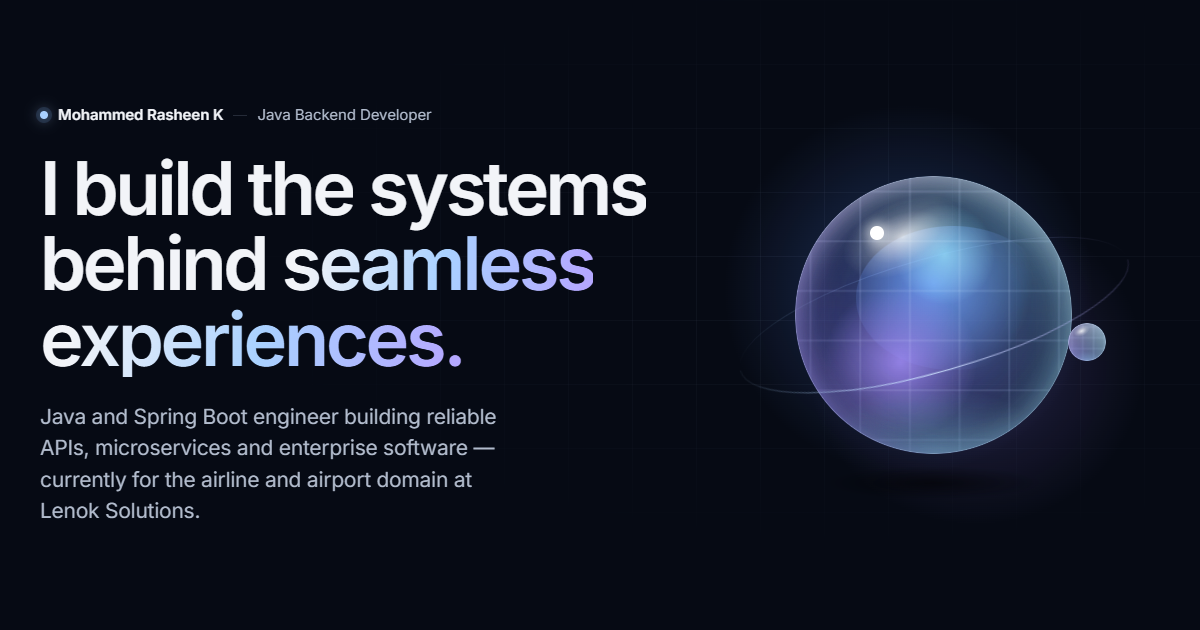
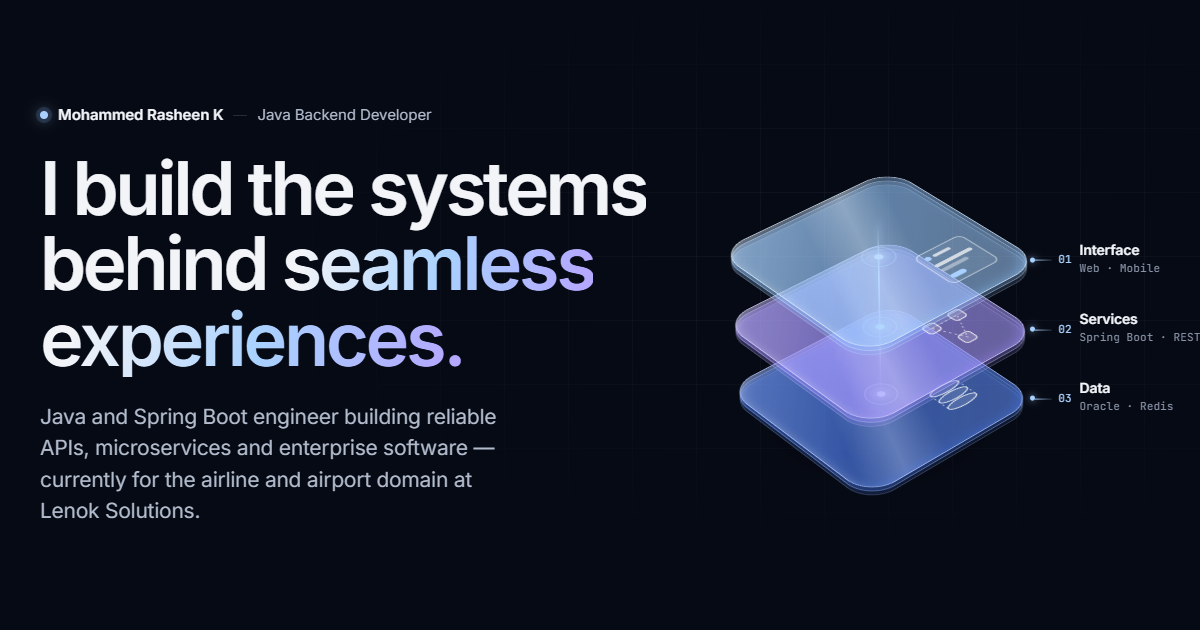
feat: enhance navigation and hero stack animations with liquid lens effects

Changed region(s): [[0.5858, 0.2714, 1.0, 0.7841], [0.9558, 0.6333, 0.9867, 0.6635]]

diff --git a/src/components/HeroStack.css b/src/components/HeroStack.css
@@ -9,6 +9,7 @@
   --explode: 0;
   --size: min(500px, 100%);
   --gap: calc(19cqw + var(--explode) * 6cqw);
+  --cx: 38cqw; /* horizontal centre of the stack; callouts derive from it */
   position: relative;
   width: var(--size);
   aspect-ratio: 1 / 1.04;
@@ -26,7 +27,7 @@
 
 .stack-plane {
   position: absolute;
-  left: 38cqw;
+  left: var(--cx);
   top: 70cqw;
   width: 50cqw;
   height: 50cqw;
@@ -172,7 +173,7 @@
 /* ---- Flat callouts (readable labels, like an exploded product diagram) --
    Each label sits at its slab's right-hand corner, projected from the same
    rotations as .stack-plane (rotateX 56°, rotateZ -42°, face 50cqw):
-     x = centre + 0.706·s           → 38cqw + 35.3cqw
+     x = centre + 0.706·s           → var(--cx) + 35.3cqw
      y = centre + 0.021·s − 0.829·k·gap (k = height in the stack)        */
 
 .stack-callouts {
@@ -186,7 +187,7 @@
 .stack-callout {
   --k: calc(2 - var(--i));
   position: absolute;
-  left: calc(73.3cqw + 5cqw);
+  left: calc(var(--cx) + 35.3cqw + 5cqw);
   top: calc(71cqw - var(--k) * 0.829 * var(--gap));
   translate: 0 -50%;
   display: grid;
@@ -255,13 +256,20 @@
   display: none;
 }
 
+/* Narrower desktops: shift the sculpture left so callouts stay on screen */
+@media (max-width: 1279.98px) {
+  .stack-stage {
+    --cx: 27cqw;
+  }
+}
+
 /* Small screens: the sculpture alone, no callouts */
 @media (max-width: 899.98px) {
   .stack-stage {
     --size: min(320px, 72vw);
   }
-  .stack-plane {
-    left: 50%;
+  .stack-stage {
+    --cx: 50cqw;
   }
   .stack-callouts {
     display: none;

diff --git a/src/components/Nav.jsx b/src/components/Nav.jsx
@@ -47,13 +47,14 @@ function useLiquidLens(lensRef, linkRefs, target) {
       if (animate && from && (from.x !== next.x || from.w !== next.w) && !prefersReducedMotion()) {
         const left = Math.min(from.x, next.x);
         const right = Math.max(from.x + from.w, next.x + next.w);
+        // Per-keyframe easing: ease into the stretch, spring out of it
         lens.animate(
           [
-            { transform: `translateX(${from.x}px) scaleY(1)`, width: `${from.w}px` },
-            { transform: `translateX(${left + (right - left) * 0.08}px) scaleY(0.86)`, width: `${(right - left) * 0.84}px`, offset: 0.42 },
+            { transform: `translateX(${from.x}px) scaleY(1)`, width: `${from.w}px`, easing: 'cubic-bezier(0.4, 0, 0.2, 1)' },
+            { transform: `translateX(${left + (right - left) * 0.06}px) scaleY(0.84)`, width: `${(right - left) * 0.88}px`, offset: 0.4, easing: 'cubic-bezier(0.3, 1.3, 0.5, 1)' },
             { transform: `translateX(${next.x}px) scaleY(1)`, width: `${next.w}px` },
           ],
-          { duration: 560, easing: 'cubic-bezier(0.3, 1.25, 0.5, 1)' }
+          { duration: 620 }
         );
       }
       prev.current = next;

diff --git a/src/components/Nav.css b/src/components/Nav.css
@@ -121,9 +121,8 @@
     inset 0 0 0 0.5px rgba(255, 255, 255, 0.12),
     0 6px 16px -8px rgba(0, 0, 0, 0.5);
   transform-origin: center;
+  /* transform & width are animated by the liquid-lens script, not CSS */
   transition:
-    transform var(--dur-slow) var(--ease-spring),
-    width var(--dur-slow) var(--ease-spring),
     height var(--dur-slow) var(--ease-spring),
     top var(--dur-slow) var(--ease-spring),
     opacity var(--dur-base);

diff --git a/README.md b/README.md
@@ -49,7 +49,11 @@ src/
   specular (`::after`, driven by `--mx/--my`), inner highlight and chromatic edge fringe.
 - Falls back to solid surfaces under `prefers-reduced-transparency` or without `backdrop-filter`.
 - Decorative motion is skipped under `prefers-reduced-motion`, data saver, or low-power devices.
-- The hero orb is pure CSS (no WebGL); its inner grid shifts opposite the pointer to read as refraction.
+- **Navigation dock:** three glass capsules (identity · sections · tools + CTA). The active-section lens
+  is animated with the Web Animations API so it stretches between links like a liquid drop.
+- **Hero stack** (`HeroStack.jsx`): an exploded, isometric glass stack — Interface → Services → Data —
+  in pure CSS 3D (no WebGL). It tilts toward the pointer and separates on scroll. Callout positions are
+  projected from the same rotations as the plane; see the comment in `HeroStack.css` if you change them.
 
 ## Deployment (Netlify)
 
